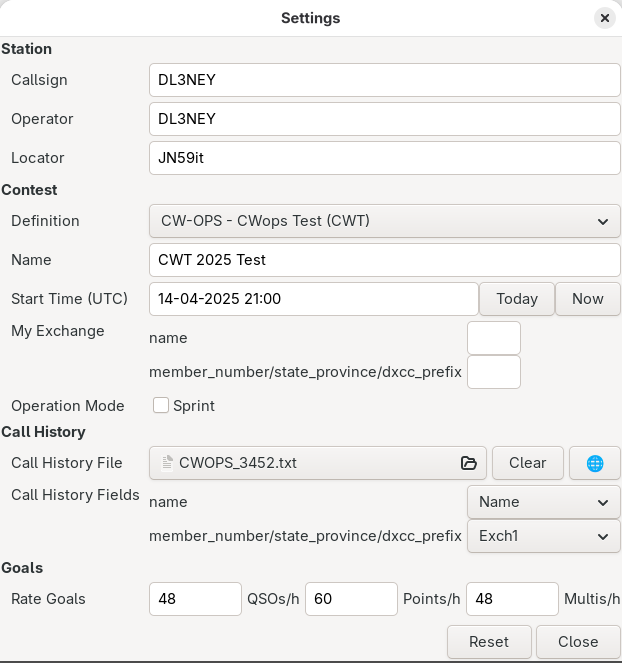
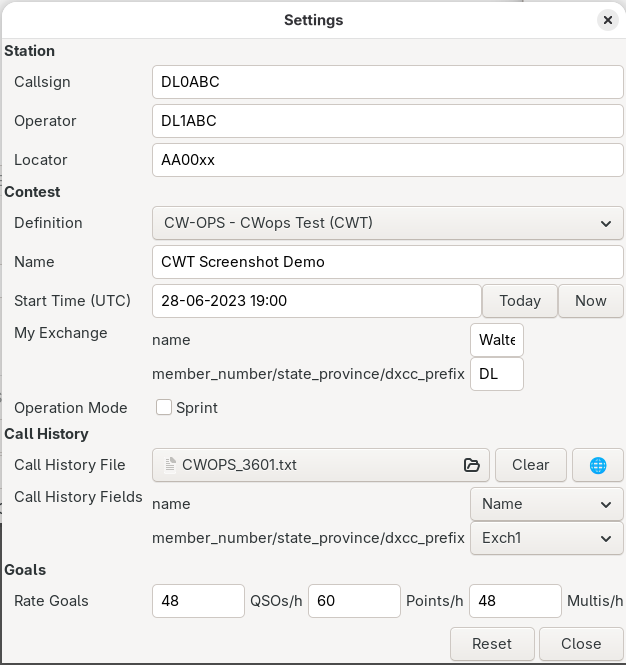
update screenshots; use the central clock also in settings

diff --git a/core/settings/settings.go b/core/settings/settings.go
@@ -107,9 +107,10 @@ type View interface {
 	SetMultisGoal(string)
 }
 
-func New(configurationFileOpener ConfigurationFileOpener, browserOpener BrowserOpener, callHistory CallHistory, station core.Station, contest core.Contest) *Settings {
+func New(configurationFileOpener ConfigurationFileOpener, clock core.Clock, browserOpener BrowserOpener, callHistory CallHistory, station core.Station, contest core.Contest) *Settings {
 	result := &Settings{
 		writer:                  new(nullWriter),
+		clock:                   clock,
 		view:                    new(nullView),
 		configurationFileOpener: configurationFileOpener,
 		browserOpener:           browserOpener,
@@ -132,6 +133,7 @@ func New(configurationFileOpener ConfigurationFileOpener, browserOpener BrowserO
 
 type Settings struct {
 	writer                         Writer
+	clock                          core.Clock
 	view                           View
 	configurationFileOpener        ConfigurationFileOpener
 	browserOpener                  BrowserOpener
@@ -432,7 +434,7 @@ func (s *Settings) ContestDefinition(contestIdentifier string) *conval.Definitio
 }
 
 func (s *Settings) ProposeContestName(contestIdentifier string) string {
-	year := time.Now().Format("2006") // TODO use the central clock instead of time.Now()!
+	year := s.clock.Now().Format("2006")
 	return fmt.Sprintf("%s %s", contestIdentifier, year)
 }
 
@@ -629,14 +631,14 @@ func (s *Settings) EnterContestStartTime(value string) {
 }
 
 func (s *Settings) SetContestStartTimeToday() {
-	year, month, day := time.Now().Date()
+	year, month, day := s.clock.Now().Date()
 	s.contest.StartTime = time.Date(year, month, day, 0, 0, 0, 0, time.UTC)
 	s.view.HideMessage()
 	s.view.SetContestStartTime(s.formattedContestStartTime())
 }
 
 func (s *Settings) SetContestStartTimeNow() {
-	s.contest.StartTime = time.Now().UTC().Truncate(time.Hour)
+	s.contest.StartTime = s.clock.Now().UTC().Truncate(time.Hour)
 	s.view.HideMessage()
 	s.view.SetContestStartTime(s.formattedContestStartTime())
 }

diff --git a/core/app/app.go b/core/app/app.go
@@ -148,6 +148,7 @@ func (c *Controller) Startup() {
 	c.callHistoryFinder = callhistory.New(c.ServiceStatus.StatusChanged)
 	c.Settings = settings.New(
 		c.OpenConfigurationFile,
+		c.clock,
 		c.openWithExternalApplication,
 		c.callHistoryFinder,
 		c.configuration.Station(),

diff --git a/docs/docu_guide.md b/docs/docu_guide.md
@@ -26,7 +26,7 @@ Use [flameshot](https://flameshot.org) to take the screenshots. Use the light mo
   - only 'My Exchange' for CWT -> [contest_settings_my_exchange_cwt](screenshots/contest_settings_myexchange_cwt.png)
   - only 'My Exchange' for RST + serial, 'Gen. Report' selected
   - only 'My Exchange' for RST + serial, 'Gen. Report' not selected
-- 'New Contest'
+- 'New Contest' -> [new_cwt](screenshots/new_cwt.png)
 - 'Macros'
 - 'QSO-Rate', with some numbered bullet points to explain the graphic's components:
   - the ciruclar time indicator
